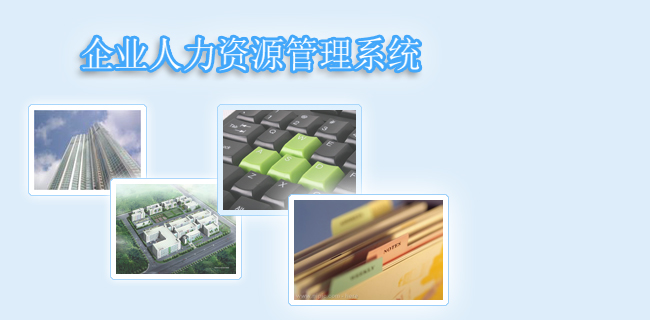
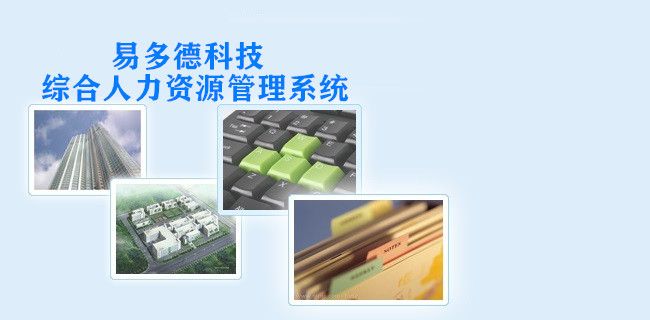
调整细节

diff --git a/WebContent/js/myjs/employee/applicantAdd.js b/WebContent/js/myjs/employee/applicantAdd.js
@@ -341,16 +341,14 @@ addApplicantForm = Ext.extend(Ext.form.FormPanel,{
 							waitMsg: '正在保存数据...',
 							success: function(response, options){
 								var datas = Ext.util.JSON.decode(response.responseText);
-								Ext.Msg.alert("提示", datas.msg, function(){
-									Ext.getCmp('applicant').destroy();
-									Ext.getCmp("empInfoapplicant").getStore().load({
-										params: {
-											deptId: "",
-											start: 0,
-											limit: 20
-										}
-									});
-								})
+								Ext.getCmp('applicantUpdateWinId').destroy();//销毁窗体
+								Ext.getCmp("empInfoapplicant").getStore().load({
+								params: {
+									deptId: "",
+									start: 0,
+									limit: 20
+								}
+							});
 								
 							},
 							failure: saveFailure,
@@ -380,7 +378,7 @@ saveSuccess = function(form, action){
 	Ext.Msg.confirm('提示', action.result.msg, function(button, text){
 		Ext.get('emp_photo').dom.src = 'img/default.gif';
 		if(button == "yes"){
-			Ext.getCmp('applicantUpdateWinId').destroy();//销毁窗体
+			Ext.getCmp('empUpdateWinId').destroy();//销毁窗体
 			Ext.getCmp("empInfoapplicant").getStore().load({
 			params: {
 				deptId: "",

diff --git a/WebContent/js/myjs/main.js b/WebContent/js/myjs/main.js
@@ -31,7 +31,7 @@
  				id: 'menu_tree',
  				xtype: 'panel',
  				autoScroll: true,
- 				title: '人力资源管理系统',
+ 				title: '易多德科技综合人力资源管理系统',
  				split: true,
  				collapsible: true,
  				items: [{
@@ -51,7 +51,7 @@
  					}),
  					//每加入进来的节点，若为非叶子节点则做为根节点继续进行查找
  					root: new Ext.tree.AsyncTreeNode({
- 						text: '人力资源管理',
+ 						text: '易多德科技综合人力资源管理系统',
  						expanded :true,
  						id: '1' //加载数据时每次以变量node传入id的值如: node=1
  						//leaf: false //数据库中存储的为1/0
@@ -68,7 +68,7 @@
  				width: '100%',
  				frame: true,
  				height: 30,
- 				html: "<div id='author'>Copyright &copy; 201805 【猿来入此】</div>"
+ 				html: "<div id='author'>Copyright &copy; 201904 【黄子芊】</div>"
  			}]
  		});
  	},

diff --git a/WebContent/js/myjs/employee/applicantAudit.js b/WebContent/js/myjs/employee/applicantAudit.js
@@ -402,7 +402,14 @@ ApplicantDetail = Ext.extend(Ext.form.FormPanel, {
 					hidden : true,
 					text : '拒绝',
 					handler : this.refuse
-				}, ]
+				},{
+					text: '关闭',
+					handler: function(){
+						//Ext.getCmp('empForm').getForm().reset();
+						//Ext.get('emp_photo').dom.src = 'img/default.gif';
+						Ext.getCmp('applicantDetailWinId').destroy();
+					}
+				} ]
 			} ]
 		});
 	},
@@ -413,7 +420,7 @@ ApplicantDetail = Ext.extend(Ext.form.FormPanel, {
 			Ext.getCmp('offerAdvice').show();
 			Ext.getCmp('pass').show();
 			Ext.getCmp('refuse').show();
-			Ext.getCmp('verify').setVisible(false);
+			Ext.getCmp('verify').hide();
 		}
 	},
 	pass : function() {

diff --git a/WebContent/js/myjs/employee/empAdd.js b/WebContent/js/myjs/employee/empAdd.js
@@ -63,6 +63,8 @@ addEmpForm = Ext.extend(Ext.form.FormPanel,{
 			name: 'emp.department.deptId', mapping: 'department.deptId'
 		},{
 			name: 'emp.job.jobId', mapping: 'job.jobId'
+		},{
+			name: 'emp.status', mapping: 'status'
 		}])
 		addEmpForm.superclass.constructor.call(this,{
 			//var windowWidth =   window.screen.availWidth;获取屏幕宽度
@@ -94,6 +96,11 @@ addEmpForm = Ext.extend(Ext.form.FormPanel,{
 					width: 150
 				},
 				items: [{
+					fieldLabel: '人员状态',
+					name: 'emp.status',
+					id: 'status',
+					hidden:true
+				},{
 					fieldLabel: '工号',
 					name: 'emp.empId',
 					allowBlank: false,

diff --git a/src/com/hrmsys/service/impl/EmpServiceImpl.java b/src/com/hrmsys/service/impl/EmpServiceImpl.java
@@ -174,7 +174,7 @@ public class EmpServiceImpl implements EmpService {
 			jsonObject.put("idcardIdentification", "失败，没有身份证号");
 		}else{
 			jsonObject.put("idcardIdentification", "通过");
-			if(emp.getEmpPhoto() == null || emp.getEmpPhoto() == ""){
+			if(emp.getEmpPhoto() == null || emp.getEmpPhoto() == "" || emp.getEmpPhoto().contains("http://localhost:8080/hrmsys/img/default.gif")){
 				jsonObject.put("faceIdentification", "失败，没有上传照片");
 			}else{
 				jsonObject.put("faceIdentification", "通过");
